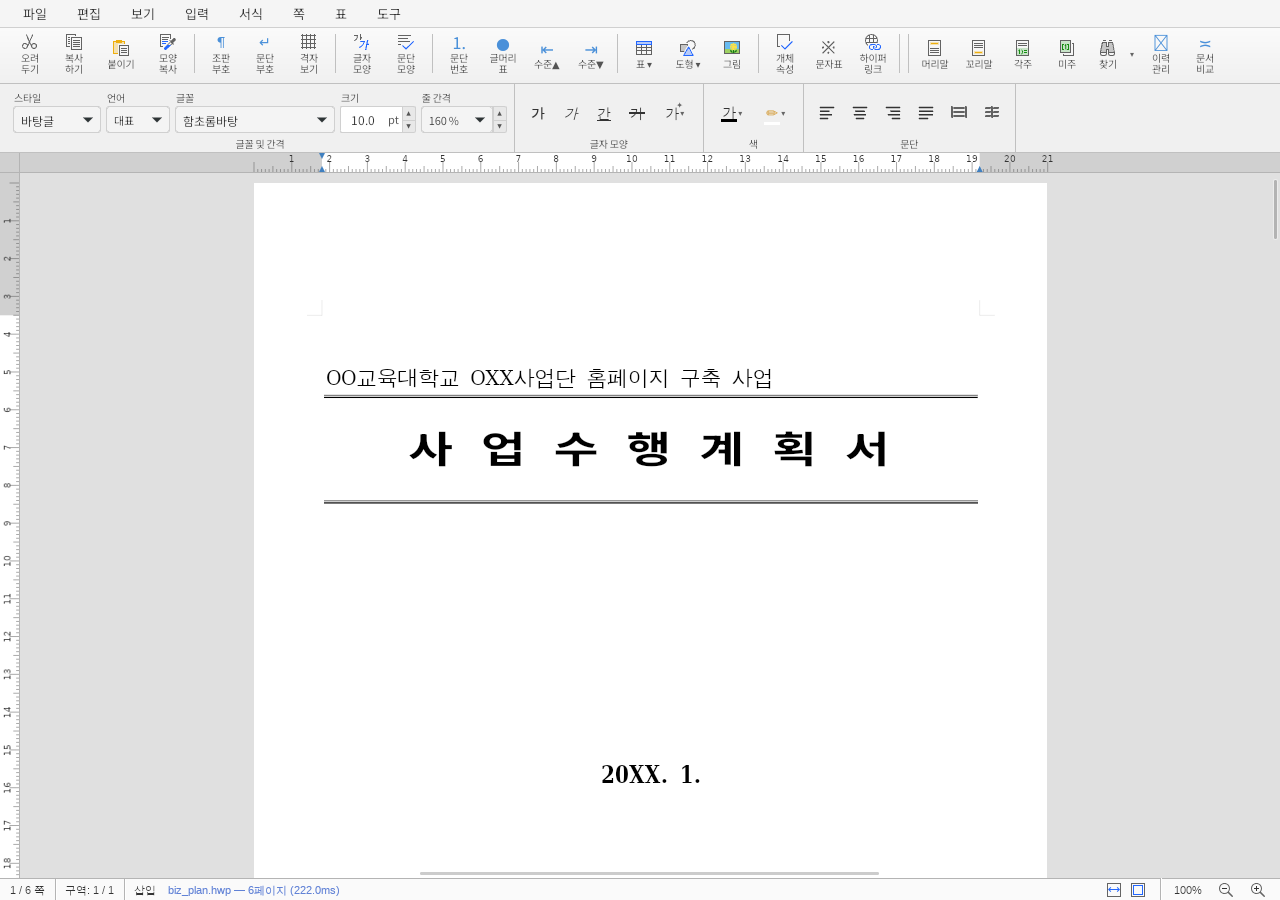
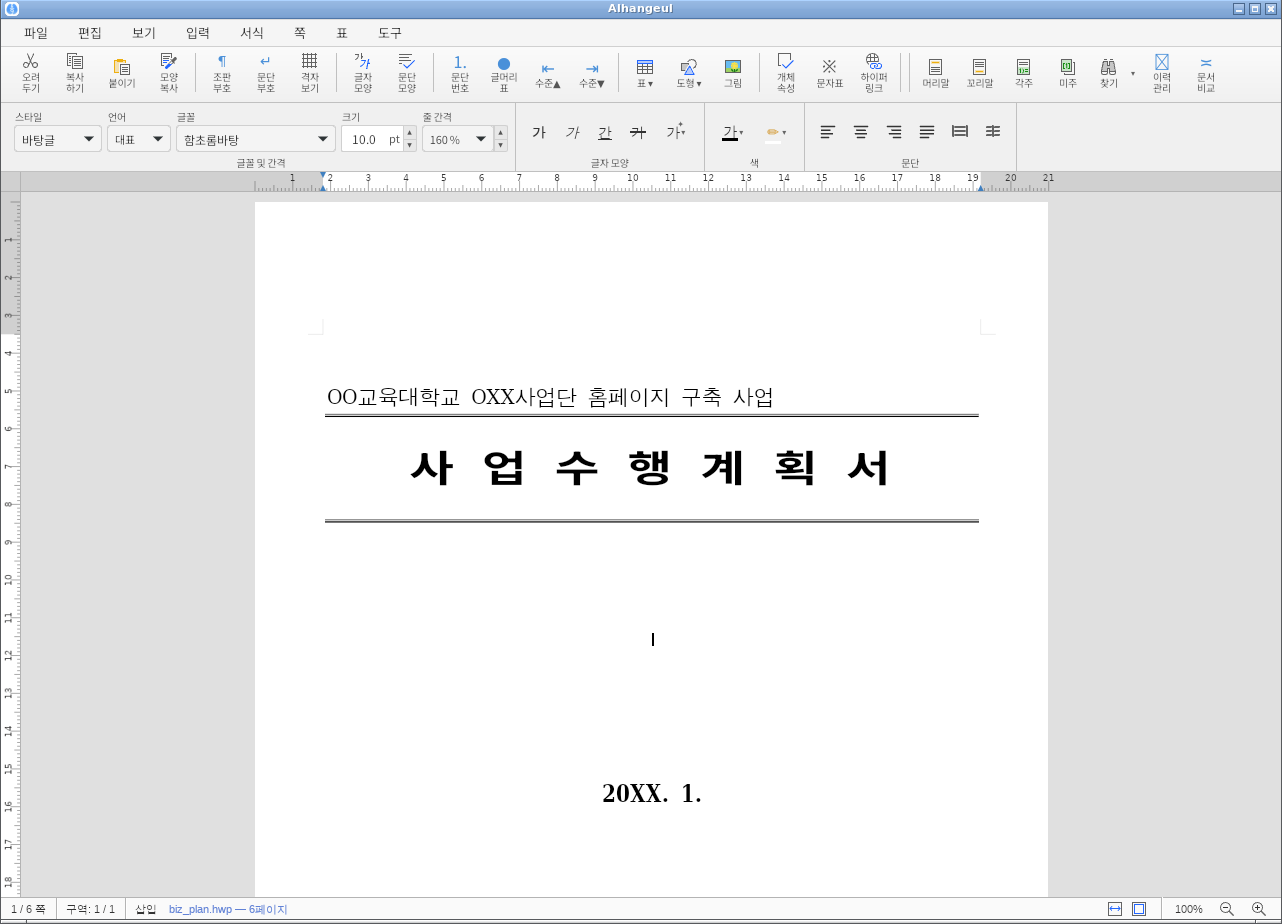
Task #45 [Stage 3.8]: 네이티브 전체 창 대표 화면 보정

Changed region(s): [[0.0, 0.0, 1.0, 1.0], [0.25, 0.4044, 0.7812, 0.5911], [0.4688, 0.84, 0.5312, 0.8711]]

diff --git a/site/index.html b/site/index.html
@@ -16,7 +16,7 @@
         <meta name="twitter:card" content="summary_large_image" />
         <link rel="canonical" href="https://postmelee.github.io/alhangeul-tauri/" />
         <link rel="icon" href="../assets/logo/favicon.ico" />
-        <link rel="stylesheet" href="styles.css?v=45-3-7" />
+        <link rel="stylesheet" href="styles.css?v=45-3-8" />
         <script src="script.js" defer></script>
     </head>
     <body class="home-page" data-site-root="./">
@@ -74,7 +74,7 @@
                 <figure class="home-product page-enter" aria-label="실제 알한글 편집 화면">
                     <div class="product-glow" aria-hidden="true"></div>
                     <div class="product-window">
-                        <img src="assets/linux-editor.png" alt="검증된 Linux 환경에서 HWP 문서를 연 실제 알한글 편집 화면" width="1280" height="900" />
+                        <img src="assets/linux-editor.png?v=45-3-8" alt="Linux 네이티브 창에서 HWP 문서를 연 실제 알한글 편집 화면" width="1282" height="924" />
                     </div>
                 </figure>
             </section>

diff --git a/site/styles.css b/site/styles.css
@@ -36,7 +36,7 @@ button { font: inherit; }
 .home-page { height: 100dvh; overflow: hidden; }
 .home-page > main { flex: 1 1 auto; }
 .home-main { min-height: 0; padding: 34px 20px; overflow: hidden; }
-.home-shell { display: grid; width: min(1080px, 100%); height: 100%; grid-template-columns: minmax(470px, 0.96fr) minmax(0, 1.04fr); align-items: center; gap: clamp(30px, 4vw, 54px); margin: auto; }
+.home-shell { display: grid; width: min(1160px, 100%); height: 100%; grid-template-columns: minmax(430px, 470px) minmax(0, 1fr); align-items: center; gap: clamp(30px, 4vw, 54px); margin: auto; }
 .home-copy h1 { margin: 0; font-size: clamp(3rem, 4.45vw, 3.75rem); font-weight: 650; line-height: 0.98; letter-spacing: -0.055em; }
 .headline-line { display: block; white-space: nowrap; }
 .home-copy h1 em { display: inline-block; color: var(--blue); font-style: normal; white-space: nowrap; }

diff --git a/site/feedback/index.html b/site/feedback/index.html
@@ -10,7 +10,7 @@
         <meta property="og:image" content="https://postmelee.github.io/alhangeul-tauri/assets/og-main.png" />
         <link rel="canonical" href="https://postmelee.github.io/alhangeul-tauri/feedback/" />
         <link rel="icon" href="../../assets/logo/favicon.ico" />
-        <link rel="stylesheet" href="../styles.css?v=45-3-7" />
+        <link rel="stylesheet" href="../styles.css?v=45-3-8" />
         <script src="../script.js" defer></script>
     </head>
     <body data-site-root="../">

diff --git a/site/updates/index.html b/site/updates/index.html
@@ -10,7 +10,7 @@
         <meta property="og:image" content="https://postmelee.github.io/alhangeul-tauri/assets/og-main.png" />
         <link rel="canonical" href="https://postmelee.github.io/alhangeul-tauri/updates/" />
         <link rel="icon" href="../../assets/logo/favicon.ico" />
-        <link rel="stylesheet" href="../styles.css?v=45-3-7" />
+        <link rel="stylesheet" href="../styles.css?v=45-3-8" />
         <script src="../script.js" defer></script>
     </head>
     <body data-site-root="../">

diff --git a/mydocs/orders/20260828.md b/mydocs/orders/20260828.md
@@ -4,5 +4,5 @@
 
 | Issue | 타스크 | 상태 | 비고 |
 |------|--------|------|------|
-| #45 | Windows/Linux 릴리스·업데이트용 GitHub Pages 재구성 | 진행중 | Stage 3.7 업데이트 정보 구조·단일 대표 화면 보정 완료, Stage 4 승인 대기 |
+| #45 | Windows/Linux 릴리스·업데이트용 GitHub Pages 재구성 | 진행중 | Stage 3.8 네이티브 전체 창 대표 화면 보정 완료, Stage 4 승인 대기 |
 | #16 | MSI·NSIS·AppImage updater 도입 | 예정 | #45 URL 계약 확정 뒤 task-start 승인 대기 |
